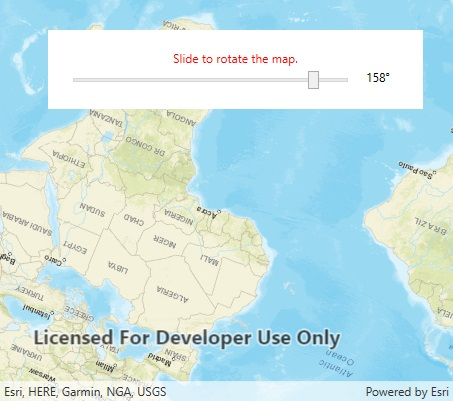
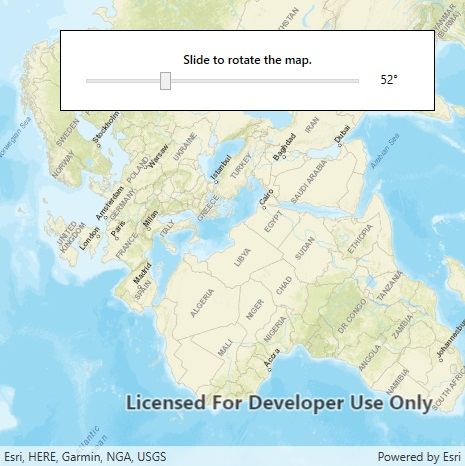
Map rotation
Improvements:

* Replaced red text with semibold black. Reason: red text is handled poorly by the jpeg compression, so screenshots looked bad and there was no good reason for the label to be red.

diff --git a/src/WPF/ArcGISRuntime.WPF.Viewer/Samples/MapView/MapRotation/MapRotation.xaml b/src/WPF/ArcGISRuntime.WPF.Viewer/Samples/MapView/MapRotation/MapRotation.xaml
@@ -23,7 +23,7 @@
                 </Grid.ColumnDefinitions>
                 <TextBlock Text="Slide to rotate the map."
                            Grid.Row="0" Grid.Column="0" Grid.ColumnSpan="2"
-                           Foreground="Red"
+                           FontWeight="SemiBold"
                            TextAlignment="Center" />
                 <Slider x:Name="MySlider"
                         Grid.Row="1" Grid.Column="0"
@@ -33,6 +33,7 @@
                         ValueChanged="MySlider_ValueChanged" />
                 <TextBlock x:Name="MyLabel"
                            TextAlignment="Center" VerticalAlignment="Center"
+                           Padding="0,2,0,0"
                            Grid.Row="1" Grid.Column="1" />
             </Grid>
         </Border>
